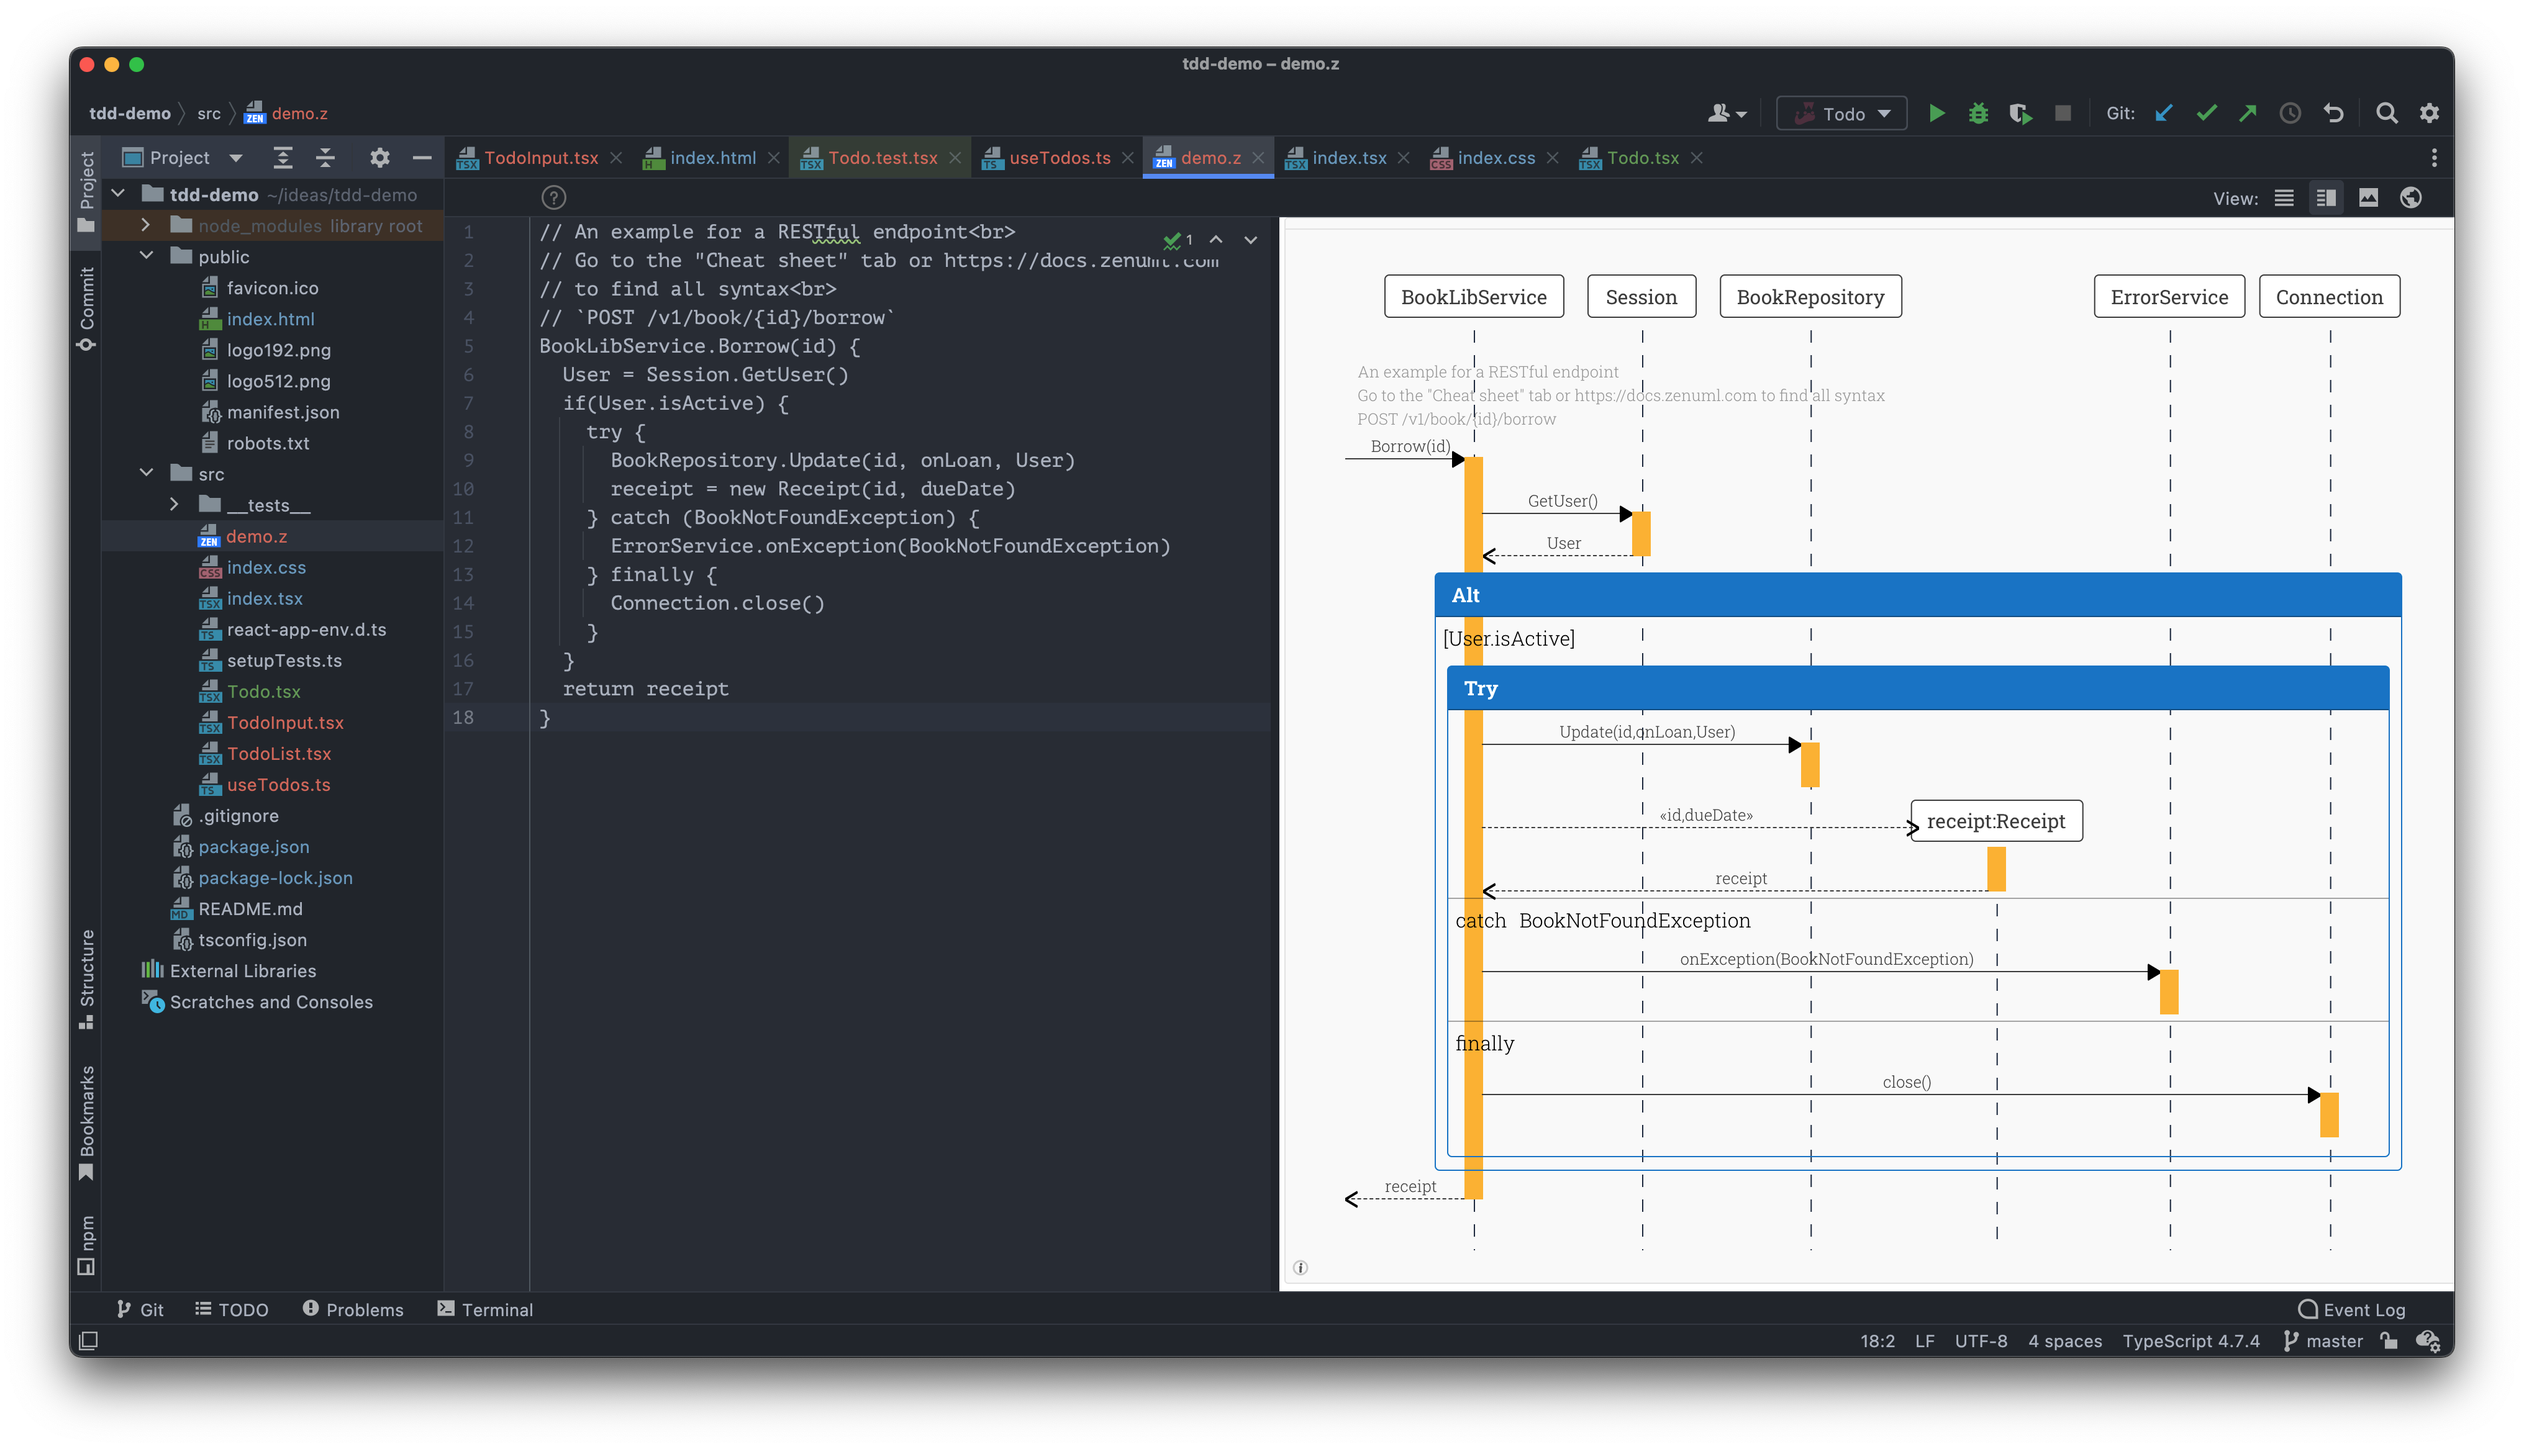
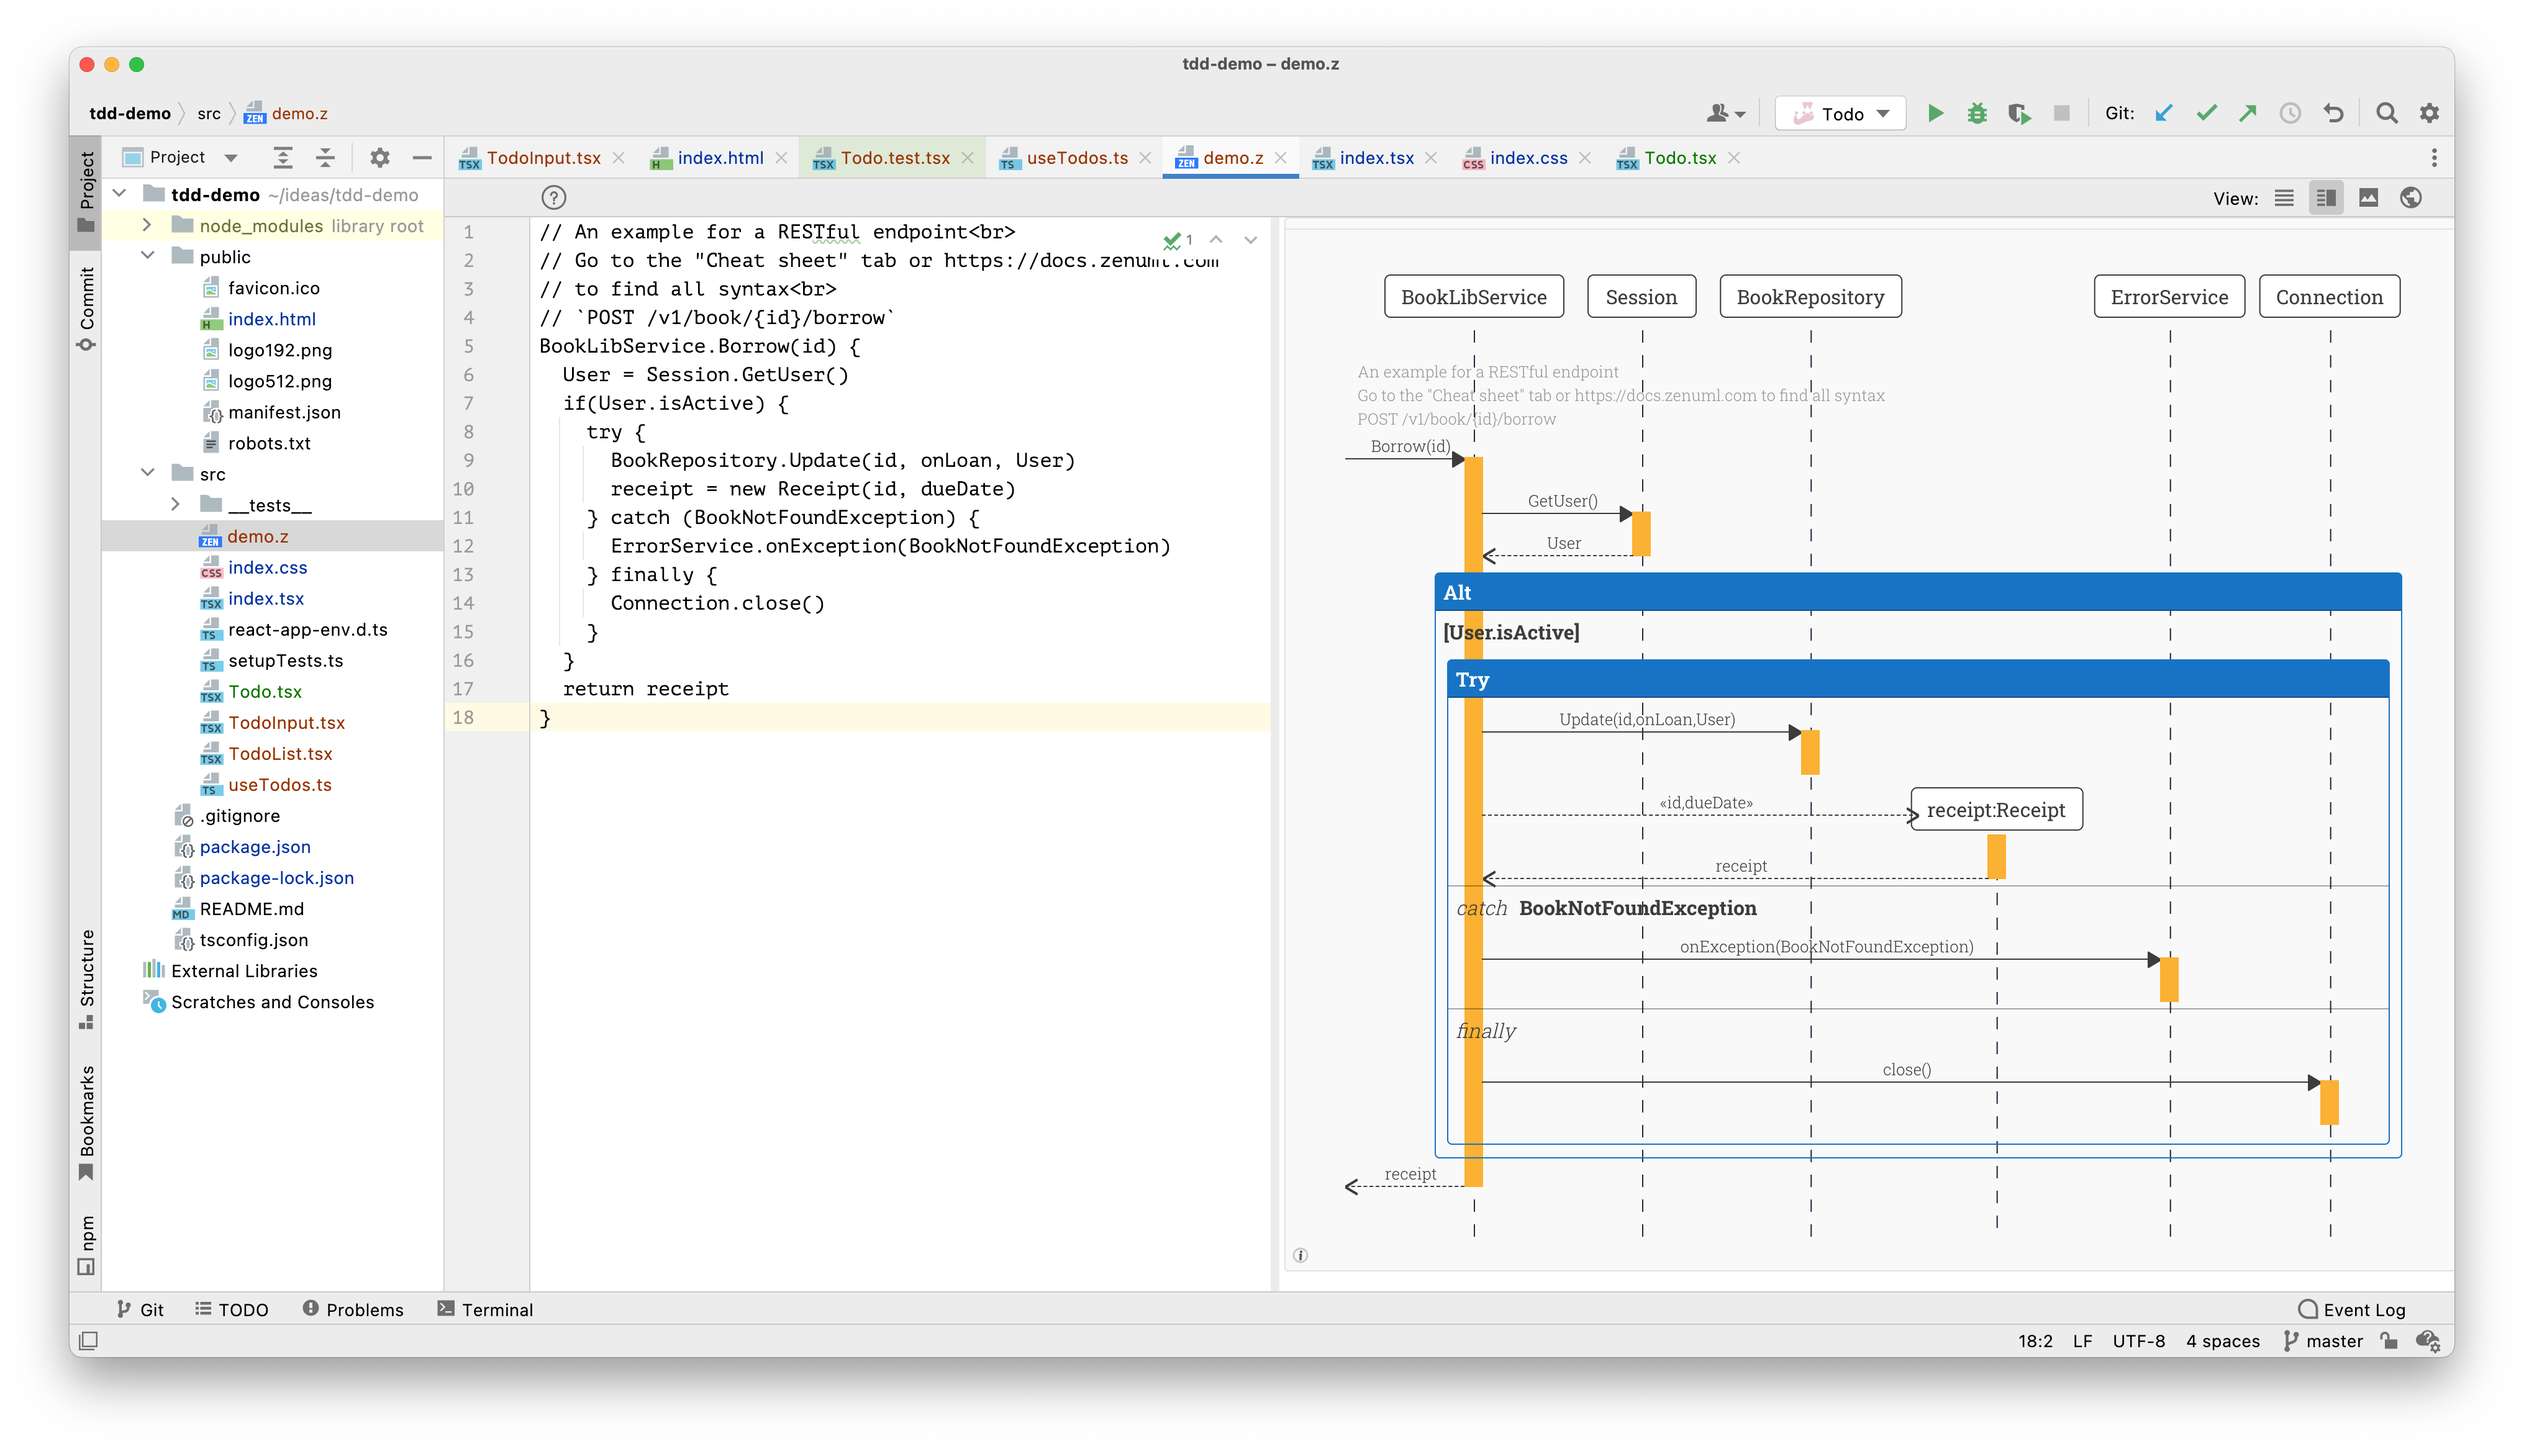
restyling a little bit

diff --git a/zenuml-override.css b/zenuml-override.css
@@ -7,12 +7,16 @@
   --text-color: #444;
   --border-color: #0f7fd0;
   --occurrence-color: #fdb90a;
+
+  --border-radius: 5px;
 }
+
+/* diagram */
 
 #diagram {
   background: rgba(250, 250, 250, 1);
   font-weight: lighter;
-  color: #ccc;
+  color: var(--text-color);
   text-align: center;
 }
 
@@ -23,13 +27,13 @@
 #diagram .frame {
   background-color: white;
   box-shadow: 0px 5px 10px -5px #ccc;
-  border-radius: 10px;
+  border-radius: var(--border-radius);
 }
 
 #diagram .participant {
   padding: 0.4rem 0.8rem;
   border: 1px solid var(--text-color);
-  border-radius: 4px;
+  border-radius: var(--border-radius);
 }
 
 #diagram .participant .name {
@@ -52,38 +56,42 @@
   color: var(--text-color);
 }
 
-#diagram .hide-export {
-  /*   margin-right: 1rem; */
-}
-
 #diagram .header .name {
   background-color: var(--highlight-color);
-  padding: 0.4rem 0.8rem;
 }
 
 #diagram .header .name label {
   color: white;
 }
 
+/* fragment */
+#diagram .sequence-diagram .fragment .header .keyword {
+  color: var(--text-color);
+  font-style: italic;
+}
+
+#diagram .sequence-diagram .fragment .header .exception,
+#diagram .sequence-diagram .fragment .header .condition {
+  color: var(--text-color);
+  font-weight: bold;
+}
+
 #diagram .sequence-diagram .fragment {
   border-color: var(--border-color);
 }
 
+/* comments */
 #diagram .comments {
   color: var(--text-color);
 }
 
-#diagram .footer {
-  margin-bottom: 1rem;
-  color: var(--text-color);
-}
-
+/* message */
 #diagram .sequence-diagram .message {
   color: var(--text-color);
 }
 
 #diagram .zenuml .hover\:bg-yellow-300 {
-  transition: all 0.4s ease-in-out;
+  transition: all 0.3s ease-in-out 0s;
 }
 
 #diagram .zenuml .hover\:bg-yellow-300:hover {
@@ -94,8 +102,13 @@
   color: white;
 }
 
-#diagram .zenuml .hover\:bg-yellow-300 .name {
-  padding: 0.4rem 0.8rem;
+/* arrows */
+#diagram .sequence-diagram .message svg polyline.head {
+  fill: var(--text-color);
+}
+
+#diagram .sequence-diagram .message svg polyline {
+  stroke: var(--text-color);
 }
 
 #diagram .sequence-diagram .message {
@@ -103,16 +116,22 @@
   border-color: var(--text-color);
 }
 
+/* footer */
+#diagram .footer {
+  font-family: "Roboto Slab", serif;
+  margin-bottom: 2rem;
+  color: var(--text-color);
+}
+
+#diagram .zoom-controls {
+  border-radius: var(--border-radius);
+  cursor: pointer;
+}
+
 #diagram .zenuml .left-1 {
   margin-left: 1rem;
 }
 
 #diagram .zenuml .bg-blue-100 {
-  font-family: "Roboto Slab", serif;
   align-items: center;
-}
-
-#diagram .zoom-controls {
-  border-radius: 5px;
-  cursor: pointer;
 }

diff --git a/README.md b/README.md
@@ -1,0 +1,50 @@
+# My ZenUML Theme
+
+[ZenUML](https://app.zenuml.com/?src=landing) is a great tool to visualise your sequence diagram, and you can define the diagram in `code`.
+
+![](screenshots/within-zenuml-app.png)
+
+So essentially, it allows you to define a sequence diagram in a DSL like:
+
+```
+BookLibService.Borrow(id) {
+  User = Session.GetUser()
+  if(User.isActive) {
+    try {
+      BookRepository.Update(id, onLoan, User)
+      receipt = new Receipt(id, dueDate)
+    } catch (BookNotFoundException) {
+      ErrorService.onException(BookNotFoundException)
+    } finally {
+      Connection.close()
+    }
+  }
+  return receipt
+}
+```
+
+It does the rest for you:
+
+![]()
+
+It also runs in many other places, like Confluence, WebStorm and so on. And the beautiful thing about it is you can customise the style by CSS.
+
+## How to use
+
+In the [online editor](https://app.zenuml.com/?src=landing), you can define custom CSS in the CSS tab:
+
+![CSS Tab](screenshots/override-in-app.png)
+
+I've already done some customisation, and there is some global CSS variable defined, and you can override them just as you like.
+
+```css
+:root {
+  --highlight-color: #0f7fd0;
+  --text-color: #444;
+  --border-color: #0f7fd0;
+  --occurrence-color: #fdb90a;
+  --border-radius: 5px;
+}
+```
+
+Have fun!
